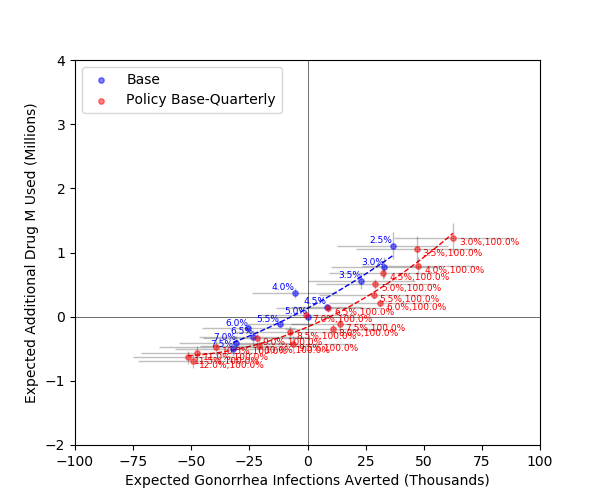
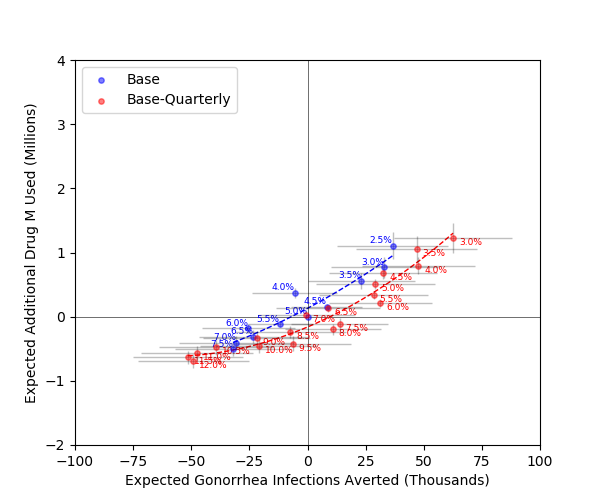
gono update

Changed region(s): [[0.36, 0.6, 0.69, 0.75], [0.66, 0.48, 0.87, 0.63], [0.21, 0.18, 0.48, 0.21]]

diff --git a/gonorrhea/GonoSettings.py b/gonorrhea/GonoSettings.py
@@ -48,7 +48,7 @@ varBaseQuart = [
     Cls.VariableCondition('% Resistant Threshold', 0.03, 0.5,
                           if_included_in_label=True, label_format='{:.1%}'),
     Cls.VariableCondition('Change in % Resistant Threshold', 1, 1,
-                          if_included_in_label=True, label_format='{:.1%}'),
+                          if_included_in_label=False, label_format='{:.1%}'),
     Cls.VariableCondition('# of Cases Tested for Resistance', DS_TESTS/4, DS_TESTS/4,
                           if_included_in_label=False)
 ]
@@ -62,6 +62,17 @@ varBaseEnhancedTesting = [
     Cls.VariableCondition('# of Cases Tested for Resistance', 2*DS_TESTS, 2*DS_TESTS,
                           if_included_in_label=False)
 ]
+varBaseQuartEnhancedTesting = [
+    Cls.VariableCondition('Decision Period', 91, 91,
+                          if_included_in_label=False),
+    Cls.VariableCondition('% Resistant Threshold', 0.03, 0.5,
+                          if_included_in_label=True, label_format='{:.1%}'),
+    Cls.VariableCondition('Change in % Resistant Threshold', 1, 1,
+                          if_included_in_label=False, label_format='{:.1%}'),
+    Cls.VariableCondition('# of Cases Tested for Resistance', DS_TESTS/2, DS_TESTS/2,
+                          if_included_in_label=False)
+]
+
 
 # series to display on the cost-effectiveness plane
 base = Cls.Series('Base', 'blue',
@@ -69,13 +80,18 @@ base = Cls.Series('Base', 'blue',
                   if_find_frontier=False,
                   labels_shift_x=-10,
                   labels_shift_y=0.04)
-baseQuarterly = Cls.Series('Policy Base-Quarterly', 'red',
+baseQuarterly = Cls.Series('Base-Quarterly', 'red',
                            variable_conditions=varBaseQuart,
                            if_find_frontier=False,
                            labels_shift_x=2.5,
                            labels_shift_y=-0.11)
-baseEnhancedTesting = Cls.Series('Policy Base-Enhanced Testing', 'red',
+baseEnhancedTesting = Cls.Series('Base with Enhanced Testing', 'red',
                                  variable_conditions=varBaseEnhancedTesting,
                                  if_find_frontier=False,
                                  labels_shift_x=2.5,
                                  labels_shift_y=-0.11)
+baseQuarterlyEnhancedTesting = Cls.Series('Base-Quarterly with Enhanced Testing', 'red',
+                                          variable_conditions=varBaseQuartEnhancedTesting,
+                                          if_find_frontier=False,
+                                          labels_shift_x=2.5,
+                                          labels_shift_y=-0.11)

diff --git a/gonorrhea/SADisplaySeries.py b/gonorrhea/SADisplaySeries.py
@@ -29,7 +29,12 @@ def plot_series(list_series, file_name = 'fig.png'):
 
 
 # base vs. quarterly base
-plot_series(list_series=[Set.base, Set.baseQuarterly], file_name='Base vs. Quarterly Base.png')
+plot_series(list_series=[Set.base, Set.baseQuarterly],
+            file_name='Base vs. Quarterly Base.png')
 # base vs. base with enhanced testing
-plot_series(list_series=[Set.base, Set.baseEnhancedTesting], file_name='Base vs. Base with Enhanced Testing.png')
+plot_series(list_series=[Set.base, Set.baseEnhancedTesting],
+            file_name='Base vs. Base with Enhanced Testing.png')
+# base vs. quarterly base with enhanced testing
+plot_series(list_series=[Set.base, Set.baseQuarterlyEnhancedTesting],
+            file_name='Base vs. Quarterly Base with Enhanced Testing.png')
 
